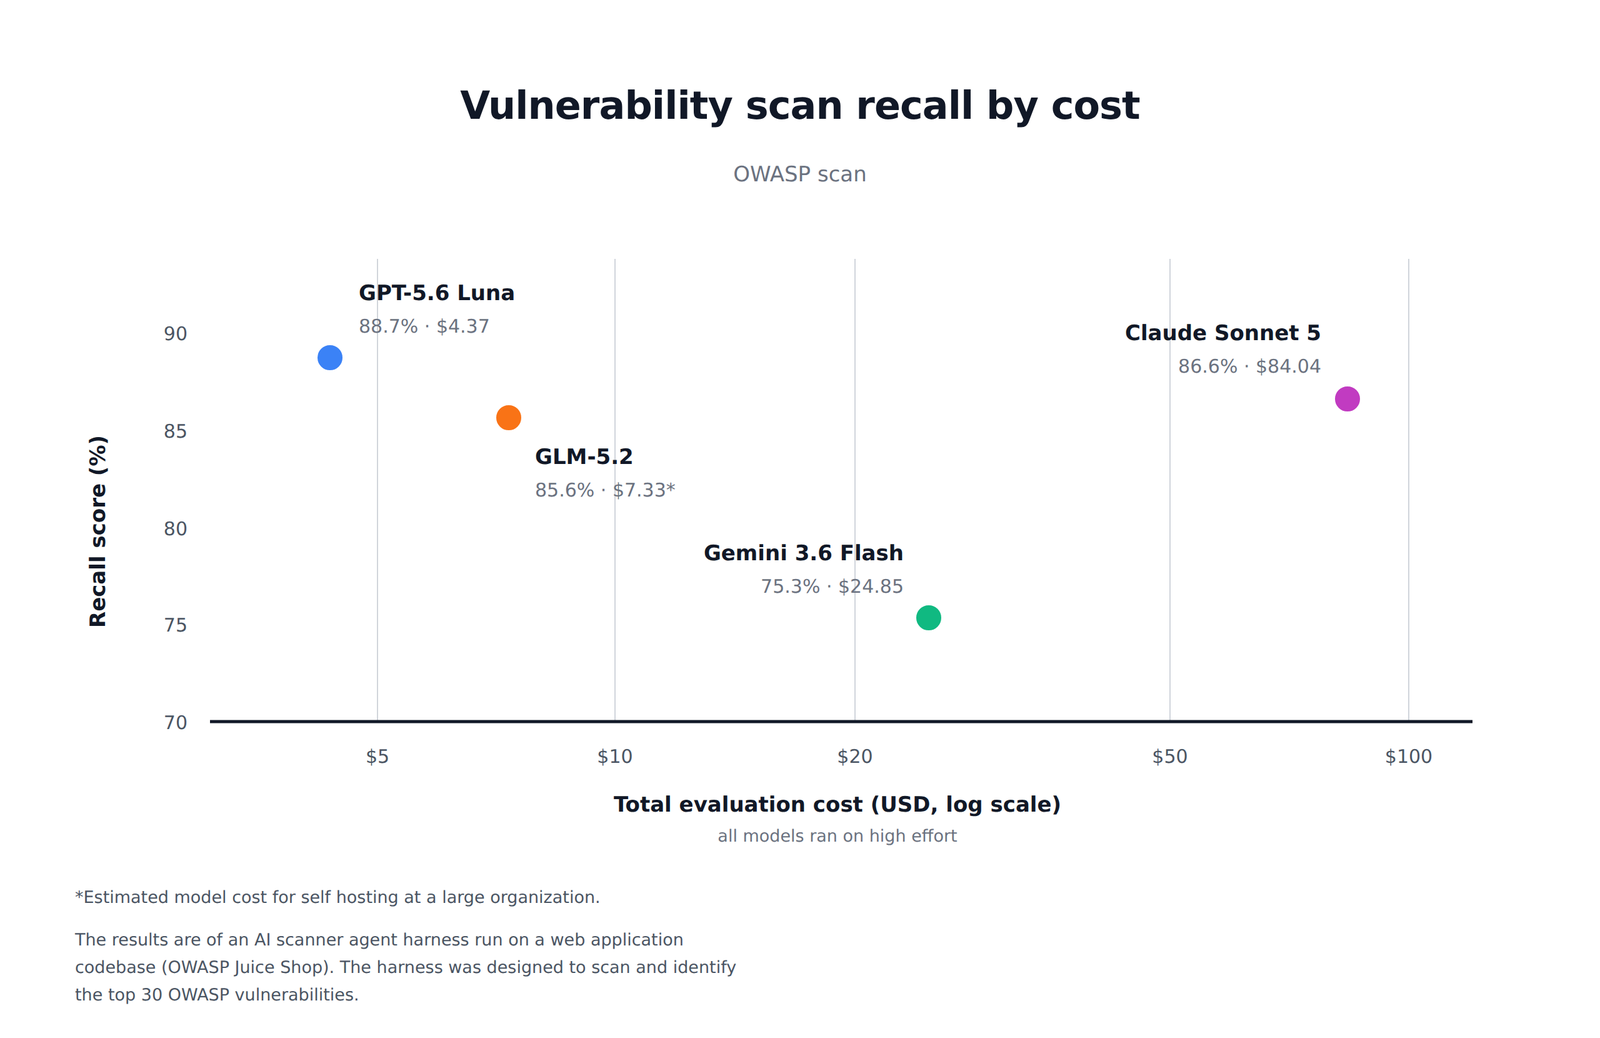
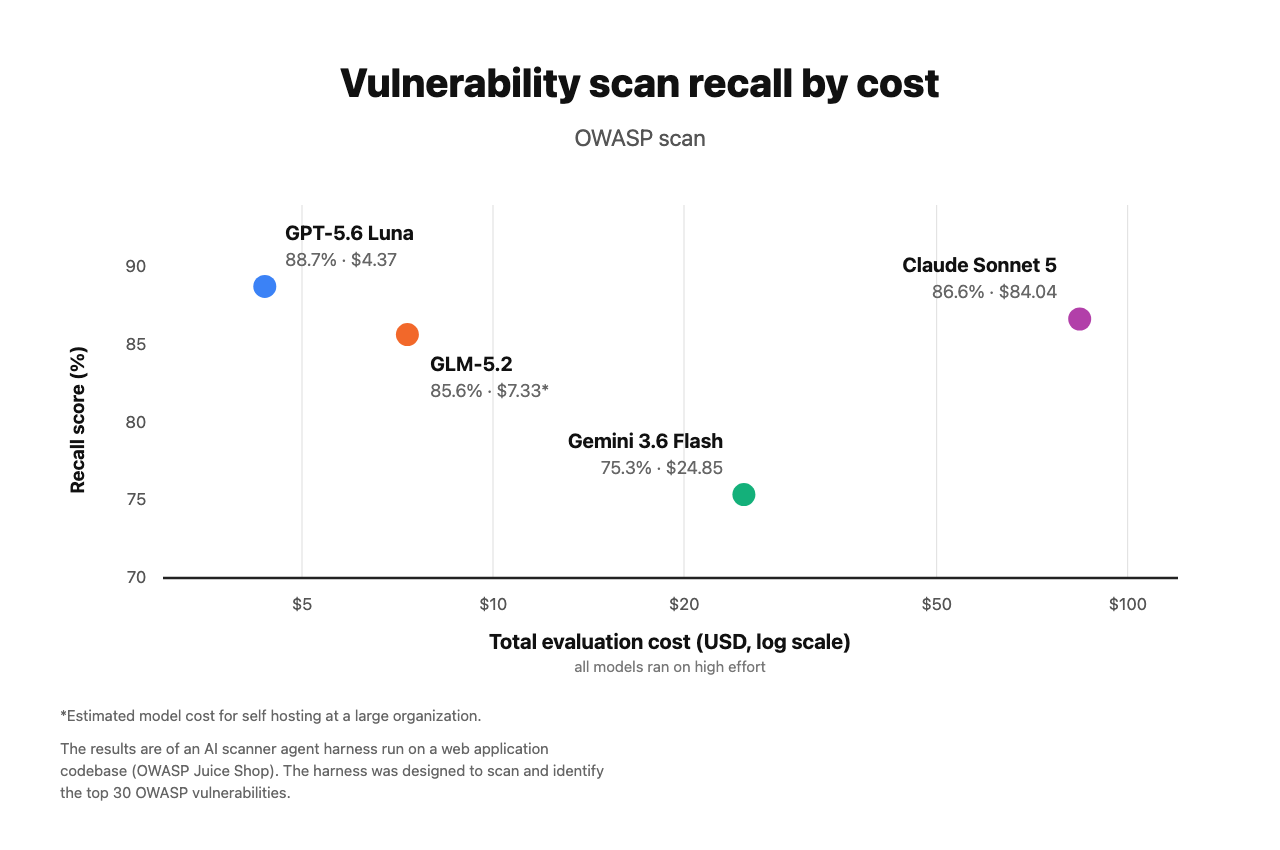
Add the real World Wide News screenshots and the original benchmark chart
Adds the two app screenshots to the World Wide News gallery, above the
architecture diagram: the globe view with the United States selected at
75/45/30 weights, and the zoomed Singapore view at the default 40/30/30
showing both English and Tamil-language sources.

Also replaces cyber-harness-benchmark.png with the original chart image
rather than the reconstruction that was standing in for it.

Claude-Session: https://claude.ai/code/session_014G2fzqnEDrJLE1sNQ3CU1t

diff --git a/client/src/components/sections/project-card.tsx b/client/src/components/sections/project-card.tsx
@@ -341,6 +341,32 @@ export default function ProjectCard({ project, index }: ProjectCardProps) {
                 <div className="space-y-4">
                   <div
                     className="bg-muted rounded-lg overflow-hidden border border-accent-gold/10 cursor-zoom-in hover:opacity-90 transition-opacity"
+                    onClick={(e) => handleImageClick("/worldwidenews-2-globe.png", e)}
+                  >
+                    <img
+                      src="/worldwidenews-2-globe.png"
+                      alt="Globe view with the United States highlighted, its top five local stories listed on the left from chattanoogan.com, wwltv.com, abc7ny.com, houstonpress.com and washingtonmonthly.com, and the intensity, richness and locality sliders set to 75, 45 and 30 percent"
+                      className="w-full h-auto object-contain"
+                    />
+                  </div>
+                  <p className="text-sm text-muted-foreground">
+                    Globe view. Every country is clickable, and the three sliders below the list retune the ranking live — here intensity has been pushed to 75% and richness to 45%.
+                  </p>
+                  <div
+                    className="bg-muted rounded-lg overflow-hidden border border-accent-gold/10 cursor-zoom-in hover:opacity-90 transition-opacity"
+                    onClick={(e) => handleImageClick("/worldwidenews-1-country.png", e)}
+                  >
+                    <img
+                      src="/worldwidenews-1-country.png"
+                      alt="Zoomed country view of Singapore with its top five local stories from straitstimes.com and tamilmurasu.com.sg, two of them in Tamil, and the sliders at the default 40, 30 and 30 percent"
+                      className="w-full h-auto object-contain"
+                    />
+                  </div>
+                  <p className="text-sm text-muted-foreground">
+                    Clicking a country zooms to it and loads its own press. Singapore returns both straitstimes.com and Tamil-language tamilmurasu.com.sg — the translingual coverage is the point, not a side effect.
+                  </p>
+                  <div
+                    className="bg-muted rounded-lg overflow-hidden border border-accent-gold/10 cursor-zoom-in hover:opacity-90 transition-opacity"
                     onClick={(e) => handleImageClick("/worldwidenews-architecture.png", e)}
                   >
                     <img
